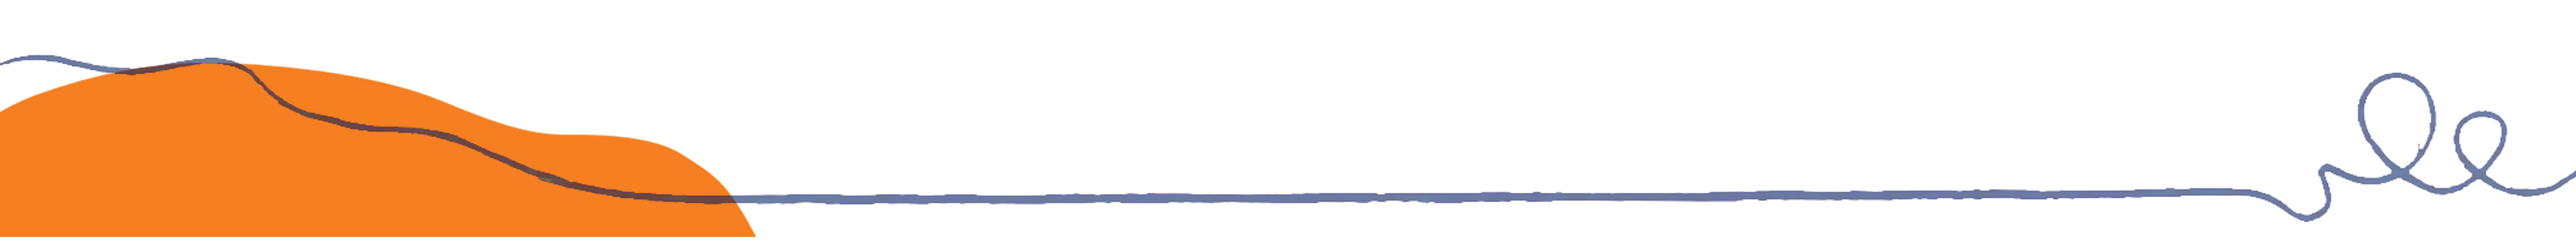
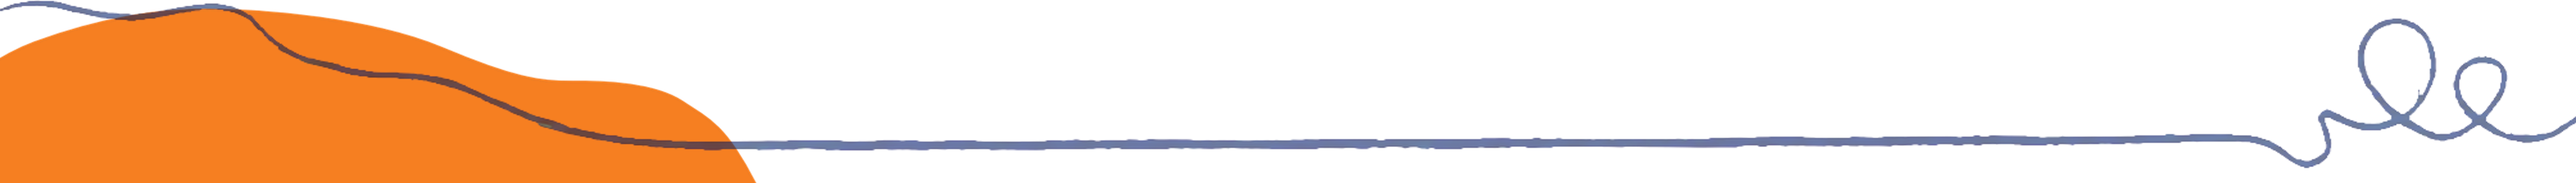
feat: update layout and styling for responsive design; improve character labels for clarity

diff --git a/src/pages/Home.jsx b/src/pages/Home.jsx
@@ -3,35 +3,35 @@ import { images } from '../data/images'
 
 const sections = ['Design and Planning', 'Conduct and Operations', 'Analysis and Dissemination']
 
-// Desktop sizes are in vw so the page scales exactly like the design
+// Desktop sizes use --u (1 design px on the 1868x1052 design, see index.css)
 export default function Home() {
   return (
-    <section className="grid items-start gap-10 px-6 pt-6 lg:grid-cols-[1fr_auto] lg:gap-[2vw] lg:pl-[7.4vw] lg:pr-[4vw] lg:pt-[min(1.8vw,3vh)]">
+    <section className="grid gap-10 px-6 pt-6 lg:block lg:p-0 lg:pl-[calc(var(--u)*140)] lg:pt-[calc(var(--u)*56)]">
       <div>
-        <h1 className="font-[Arial,Helvetica,sans-serif] text-[clamp(1.75rem,min(3vw,5.4vh),4.5rem)] font-bold leading-tight">
+        <h1 className="font-[Arial,Helvetica,sans-serif] text-3xl font-bold leading-tight md:text-4xl lg:text-[calc(var(--u)*64)] lg:leading-none">
           ASH Iron deficiency algorithm
         </h1>
 
-        <div className="mt-[min(2vw,3.5vh)] text-[clamp(0.95rem,min(1.2vw,2.2vh),1.75rem)] leading-snug">
-          <p className="max-w-[21em]">This scrollable map is split into 3 sections:</p>
-          <ul className="ml-[1.3em] list-disc">
+        <div className="mt-5 text-base leading-snug lg:mt-[calc(var(--u)*51)] lg:text-[calc(var(--u)*23)] lg:leading-[calc(var(--u)*32)]">
+          <p>This scrollable map is split into 3 sections:</p>
+          <ul className="mt-4 list-disc pl-6 marker:text-[0.7em] lg:mt-[calc(var(--u)*38)] lg:pl-[calc(var(--u)*39)]">
             {sections.map((s) => (
               <li key={s}>{s}</li>
             ))}
           </ul>
-          <p className="mt-[0.9em] max-w-[36em]">
+          <p className="mt-4 lg:mt-[calc(var(--u)*24)] lg:max-w-[calc(var(--u)*990)]">
             Here you'll find an explanation of the key stages to consider when setting up your own clinical trial.
           </p>
         </div>
 
         <Link
           to="/algorithm"
-          className="mt-[min(1.6vw,2.8vh)] inline-flex h-[clamp(2.5rem,min(3vw,5.4vh),4.5rem)] w-[clamp(8rem,min(10vw,18vh),14rem)] items-center justify-center rounded-full bg-navy text-[clamp(1rem,min(1.2vw,2.2vh),1.75rem)] font-semibold text-white hover:opacity-90"
+          className="mt-6 inline-flex h-12 w-40 items-center justify-center rounded-full bg-navy text-lg font-semibold text-white hover:opacity-90 lg:mt-[calc(var(--u)*28)] lg:h-[calc(var(--u)*64)] lg:w-[calc(var(--u)*214)] lg:text-[calc(var(--u)*26)]"
         >
           Enter
         </Link>
 
-        <div className="mt-[min(2.6vw,4.5vh)] max-w-[56em] space-y-[1.2em] text-[clamp(0.8rem,min(0.9vw,1.6vh),1.25rem)]">
+        <div className="mt-8 space-y-4 text-sm lg:mt-[calc(var(--u)*50)] lg:max-w-[calc(var(--u)*1040)] lg:space-y-[calc(var(--u)*23)] lg:text-[calc(var(--u)*18)] lg:leading-[calc(var(--u)*25)]">
           <p>
             This map was created by ASH with funding support from The ASH Health Impact Collective, Genentech, Kite,
             J&amp;J Innovative Medicine and AbbVie. Together we are committed to ensuring access to life-saving clinical
@@ -41,10 +41,12 @@ export default function Home() {
         </div>
       </div>
 
-      {/* Ring + 3 people in one image, in a fixed box measured from the design */}
-      <div className="mx-auto aspect-[660/680] w-full max-w-md lg:mt-[min(2vw,3.5vh)] lg:h-[min(31vw,60vh)] lg:w-auto lg:max-w-none">
-        <img src={images.doctors} alt="Three clinicians" className="h-full w-full object-contain" />
-      </div>
+      {/* Ring + 3 people, placed exactly where the design has them */}
+      <img
+        src={images.doctors}
+        alt="Three clinicians"
+        className="mx-auto aspect-[615/635] w-full max-w-md object-contain lg:absolute lg:right-[calc(var(--u)*58)] lg:top-[calc(var(--u)*82)] lg:h-[calc(var(--u)*635)] lg:w-[calc(var(--u)*615)] lg:max-w-none"
+      />
     </section>
   )
 }

diff --git a/src/components/Navbar.jsx b/src/components/Navbar.jsx
@@ -9,23 +9,32 @@ const links = [
   { to: '/resources', label: 'Useful resources' },
 ]
 
+// Desktop sizes use --u (1 design px, see index.css) so the header matches the design exactly
 export default function Navbar() {
   const [open, setOpen] = useState(false)
 
   return (
-    <header className="relative z-20 flex items-start justify-between gap-4 px-2 pt-2 lg:px-[0.6vw] lg:pt-[0.5vw]">
-      <Link to="/" className="flex shrink-0 items-center" onClick={() => setOpen(false)}>
-        <img src={images.logo} alt="American Society of Hematology" className="aspect-square w-14 object-contain sm:w-[4.5rem] lg:w-[7vw]" />
-        <img src={images.idAlgorithmLogo} alt="ID Algorithm" className="aspect-[5.8] w-32 object-contain sm:w-40 lg:w-[15.5vw]" />
+    <header className="relative z-20 flex items-start justify-between gap-4 px-2 pt-2 lg:block lg:h-[calc(var(--u)*158)] lg:p-0">
+      <Link to="/" className="flex shrink-0 items-center lg:block" onClick={() => setOpen(false)}>
+        <img
+          src={images.logo}
+          alt="American Society of Hematology"
+          className="aspect-square w-14 object-contain sm:w-[4.5rem] lg:absolute lg:left-[calc(var(--u)*14)] lg:top-[calc(var(--u)*8)] lg:w-[calc(var(--u)*152)]"
+        />
+        <img
+          src={images.idAlgorithmLogo}
+          alt="ID Algorithm"
+          className="aspect-[792/136] w-32 object-contain sm:w-40 lg:absolute lg:left-[calc(var(--u)*170)] lg:top-[calc(var(--u)*44)] lg:w-[calc(var(--u)*335)]"
+        />
       </Link>
 
-      <nav className="mt-[1.6vw] hidden items-center pr-[2vw] text-[1.2vw] font-semibold text-white lg:flex">
+      <nav className="hidden font-semibold text-white lg:absolute lg:right-[calc(var(--u)*62)] lg:top-[calc(var(--u)*40)] lg:flex lg:text-[calc(var(--u)*21)]">
         {links.map((link, i) => (
           <NavLink
             key={link.to}
             to={link.to}
             className={({ isActive }) =>
-              `px-[2.4vw] py-[0.5vw] ${i > 0 ? 'border-l-2 border-white' : ''} ${isActive ? 'underline underline-offset-4' : 'hover:underline underline-offset-4'}`
+              `px-[calc(var(--u)*47)] leading-[calc(var(--u)*37)] last:pr-0 ${i > 0 ? 'border-l-2 border-white' : ''} ${isActive ? 'underline underline-offset-4' : 'hover:underline underline-offset-4'}`
             }
           >
             {link.label}

diff --git a/src/components/Layout.jsx b/src/components/Layout.jsx
@@ -2,24 +2,19 @@ import { Outlet } from 'react-router-dom'
 import Navbar from './Navbar'
 import { images } from '../data/images'
 
-// Each decoration (orange shape + blue line) gets a fixed box (in vw, measured from the design)
-// and the image is stretched into it, so the layout doesn't depend on the exported image size
+// Decorations (orange shape + blue line) keep their natural proportions; desktop sizes use --u
 export default function Layout() {
   return (
     <div className="relative flex min-h-screen flex-col overflow-hidden">
       <img
         src={images.topDecoration}
         alt=""
-        className="pointer-events-none absolute right-0 top-0 h-[max(9.6vw,52px)] w-[max(58vw,300px)] object-fill"
+        className="pointer-events-none absolute right-0 top-0 w-[max(58vw,300px)] lg:w-[calc(var(--u)*1085)]"
       />
-      <img
-        src={images.bottomDecoration}
-        alt=""
-        className="pointer-events-none absolute bottom-0 left-0 h-[6.9vw] w-full object-fill"
-      />
+      <img src={images.bottomDecoration} alt="" className="pointer-events-none absolute bottom-0 left-0 w-full" />
 
       <Navbar />
-      <main className="relative z-10 flex-1 pb-[7.5vw]">
+      <main className="relative z-10 flex-1 pb-[9vw] lg:pb-[calc(var(--u)*140)]">
         <Outlet />
       </main>
     </div>

diff --git a/src/components/CharacterCard.jsx b/src/components/CharacterCard.jsx
@@ -17,7 +17,7 @@ export default function CharacterCard({ character, status = 'idle', offset = 0, 
       to={`/algorithm/${character.id}`}
       onClick={(e) => onSelect?.(e, character.id)}
       style={style}
-      className={`group relative flex w-40 flex-col items-center text-center transition-[transform,opacity] ease-soft will-change-transform sm:w-44 lg:w-[min(12.5vw,25vh)] ${
+      className={`group relative flex w-40 flex-col items-center text-center transition-[transform,opacity] ease-soft will-change-transform sm:w-44 lg:w-[calc(var(--u)*255)] ${
         selected ? 'z-10 duration-[850ms]' : ''
       } ${hidden ? 'pointer-events-none opacity-0 duration-[550ms]' : ''}`}
     >
@@ -34,7 +34,7 @@ export default function CharacterCard({ character, status = 'idle', offset = 0, 
       </div>
 
       <p
-        className={`mt-[clamp(0.5rem,min(1.3vw,2.4vh),1.75rem)] text-[clamp(0.95rem,min(1.15vw,2.1vh),1.6rem)] font-bold leading-snug transition-opacity duration-500 ease-soft ${
+        className={`mt-3 whitespace-pre-line text-base font-bold leading-snug lg:mt-[calc(var(--u)*16)] lg:text-[calc(var(--u)*24)] lg:leading-[calc(var(--u)*32)] transition-opacity duration-500 ease-soft ${
           selected ? 'opacity-0 delay-[600ms]' : ''
         }`}
       >

diff --git a/src/pages/Algorithm.jsx b/src/pages/Algorithm.jsx
@@ -30,14 +30,14 @@ export default function Algorithm() {
   const statusOf = (id) => (!selected ? 'idle' : selected.id === id ? 'selected' : 'hidden')
 
   return (
-    <section className="animate-page-in px-6 pt-[clamp(1.5rem,min(4vw,7vh),5rem)] text-center">
+    <section className="animate-page-in px-6 pt-6 lg:pl-0 lg:pr-[calc(var(--u)*38)] lg:pt-[calc(var(--u)*127)] text-center">
       <p
-        className={`text-[clamp(0.95rem,min(1.25vw,2.3vh),1.75rem)] transition-[opacity,transform] duration-500 ease-soft ${selected ? '-translate-y-2 opacity-0' : ''}`}
+        className={`text-base lg:text-[calc(var(--u)*26)] lg:leading-[calc(var(--u)*34)] transition-[opacity,transform] duration-500 ease-soft ${selected ? '-translate-y-2 opacity-0' : ''}`}
       >
         Select each character to navigate to that section.
       </p>
 
-      <div className="mt-[clamp(1.5rem,min(3vw,5.5vh),4rem)] flex flex-wrap items-start justify-center gap-x-[3.5vw] gap-y-10">
+      <div className="mt-8 lg:mt-[calc(var(--u)*69)] flex flex-wrap items-start justify-center gap-x-6 lg:gap-x-[calc(var(--u)*67)] gap-y-10">
         {characters.map((c, i) => (
           <CharacterCard
             key={c.id}

diff --git a/src/data/characters.js b/src/data/characters.js
@@ -11,19 +11,19 @@ export const characters = [
   { id: 'adults', label: 'Adults', cardImage: '/images/characters/adults.png', image: '/characters/adults.svg' },
   {
     id: 'menstruating',
-    label: 'Menstruating individuals',
+    label: 'Menstruating\nindividuals',
     cardImage: '/images/characters/menstruating.png',
     image: '/characters/menstruating.svg',
   },
   {
     id: 'pregnant',
-    label: 'Pregnant individuals',
+    label: 'Pregnant\nindividuals',
     cardImage: '/images/characters/pregnant.png',
     image: '/characters/pregnant.svg',
   },
   {
     id: 'inflammation',
-    label: 'Anemia of inflammation',
+    label: 'Anemia of\ninflammation',
     cardImage: '/images/characters/inflammation.png',
     image: '/characters/inflammation.svg',
   },

diff --git a/src/index.css b/src/index.css
@@ -21,6 +21,11 @@
   }
 }
 
+/* 1 design pixel: the 1868x1052 design scaled to fit the screen's width or height */
+:root {
+  --u: min(calc(100vw / 1868), calc(100vh / 1052));
+}
+
 body {
   @apply bg-page text-navy font-sans antialiased;
 }
